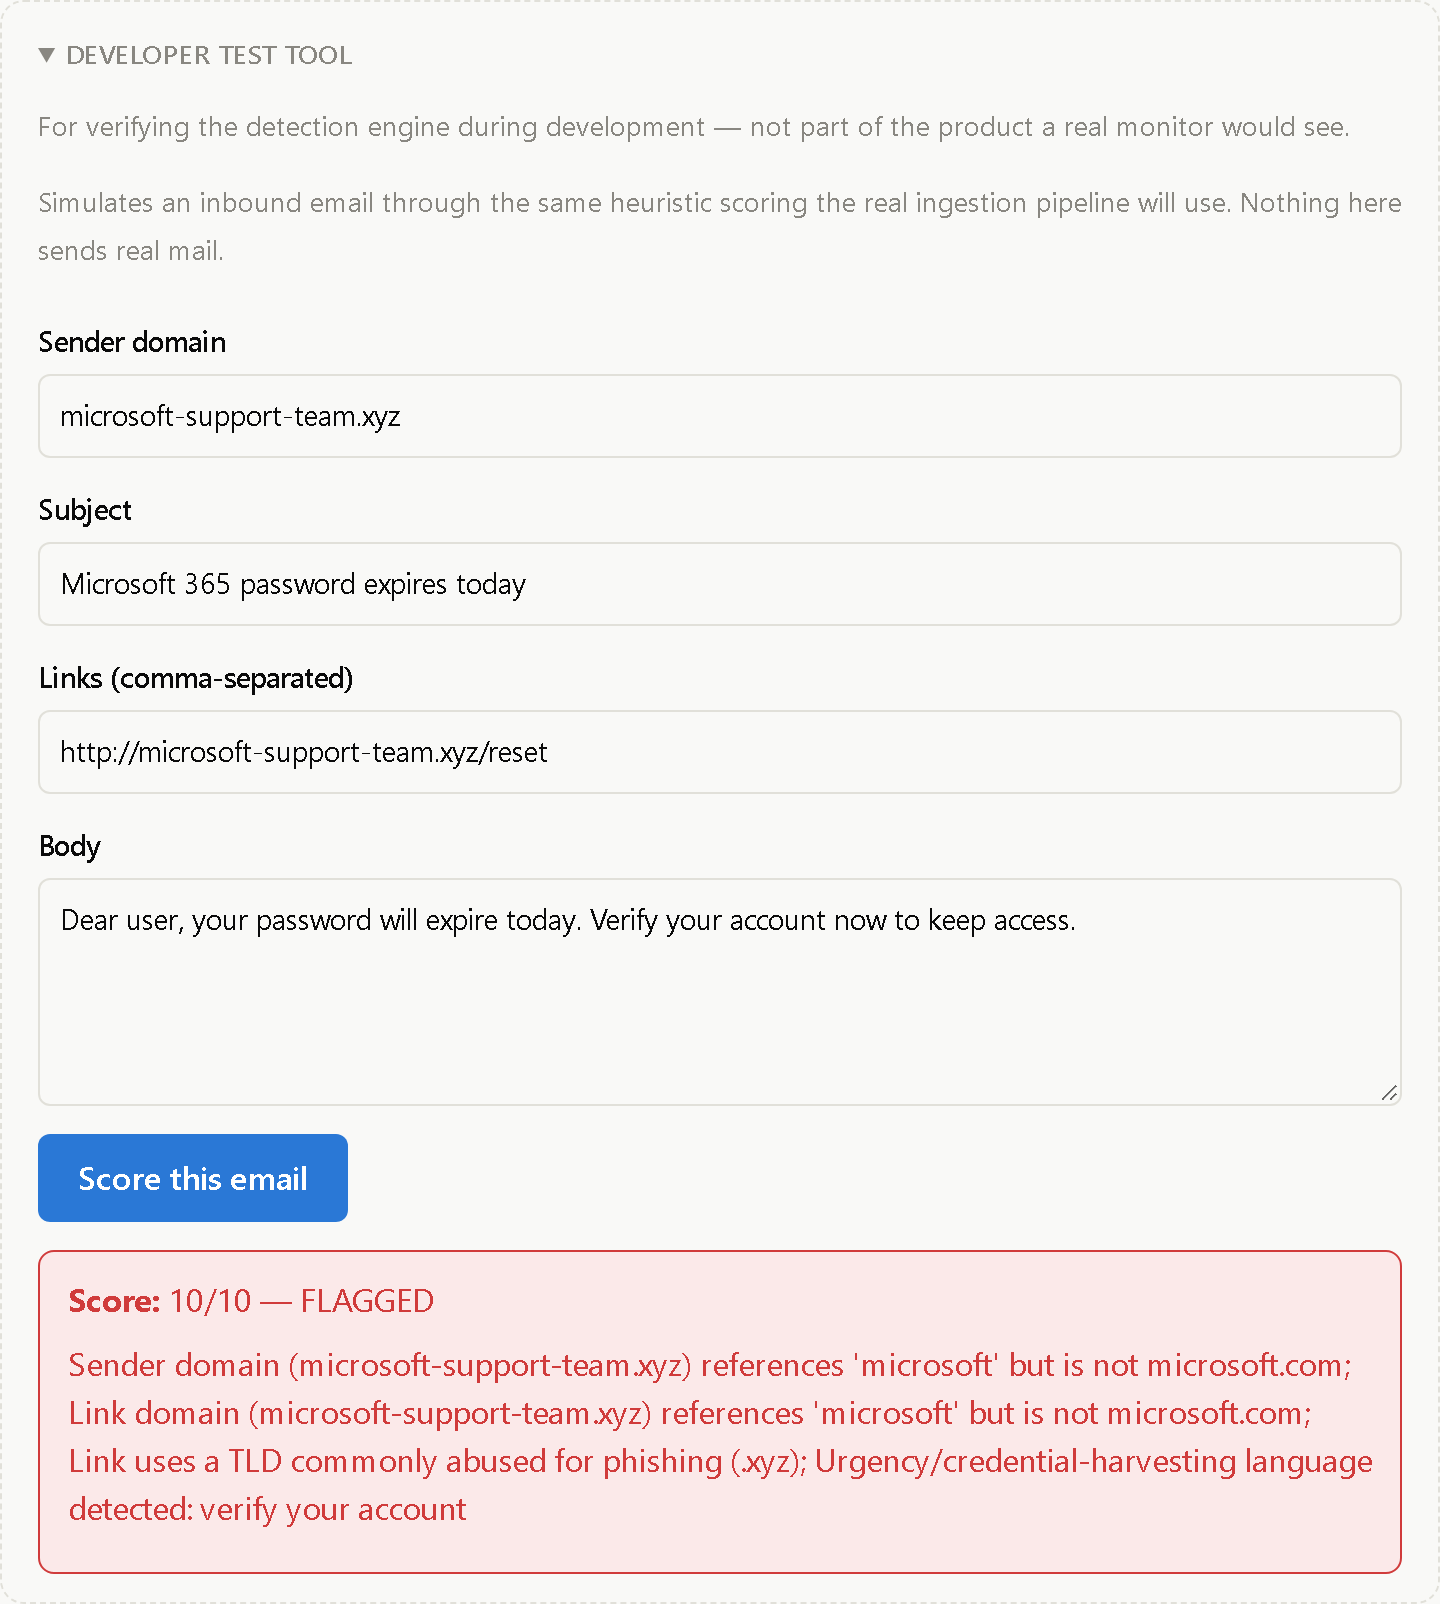
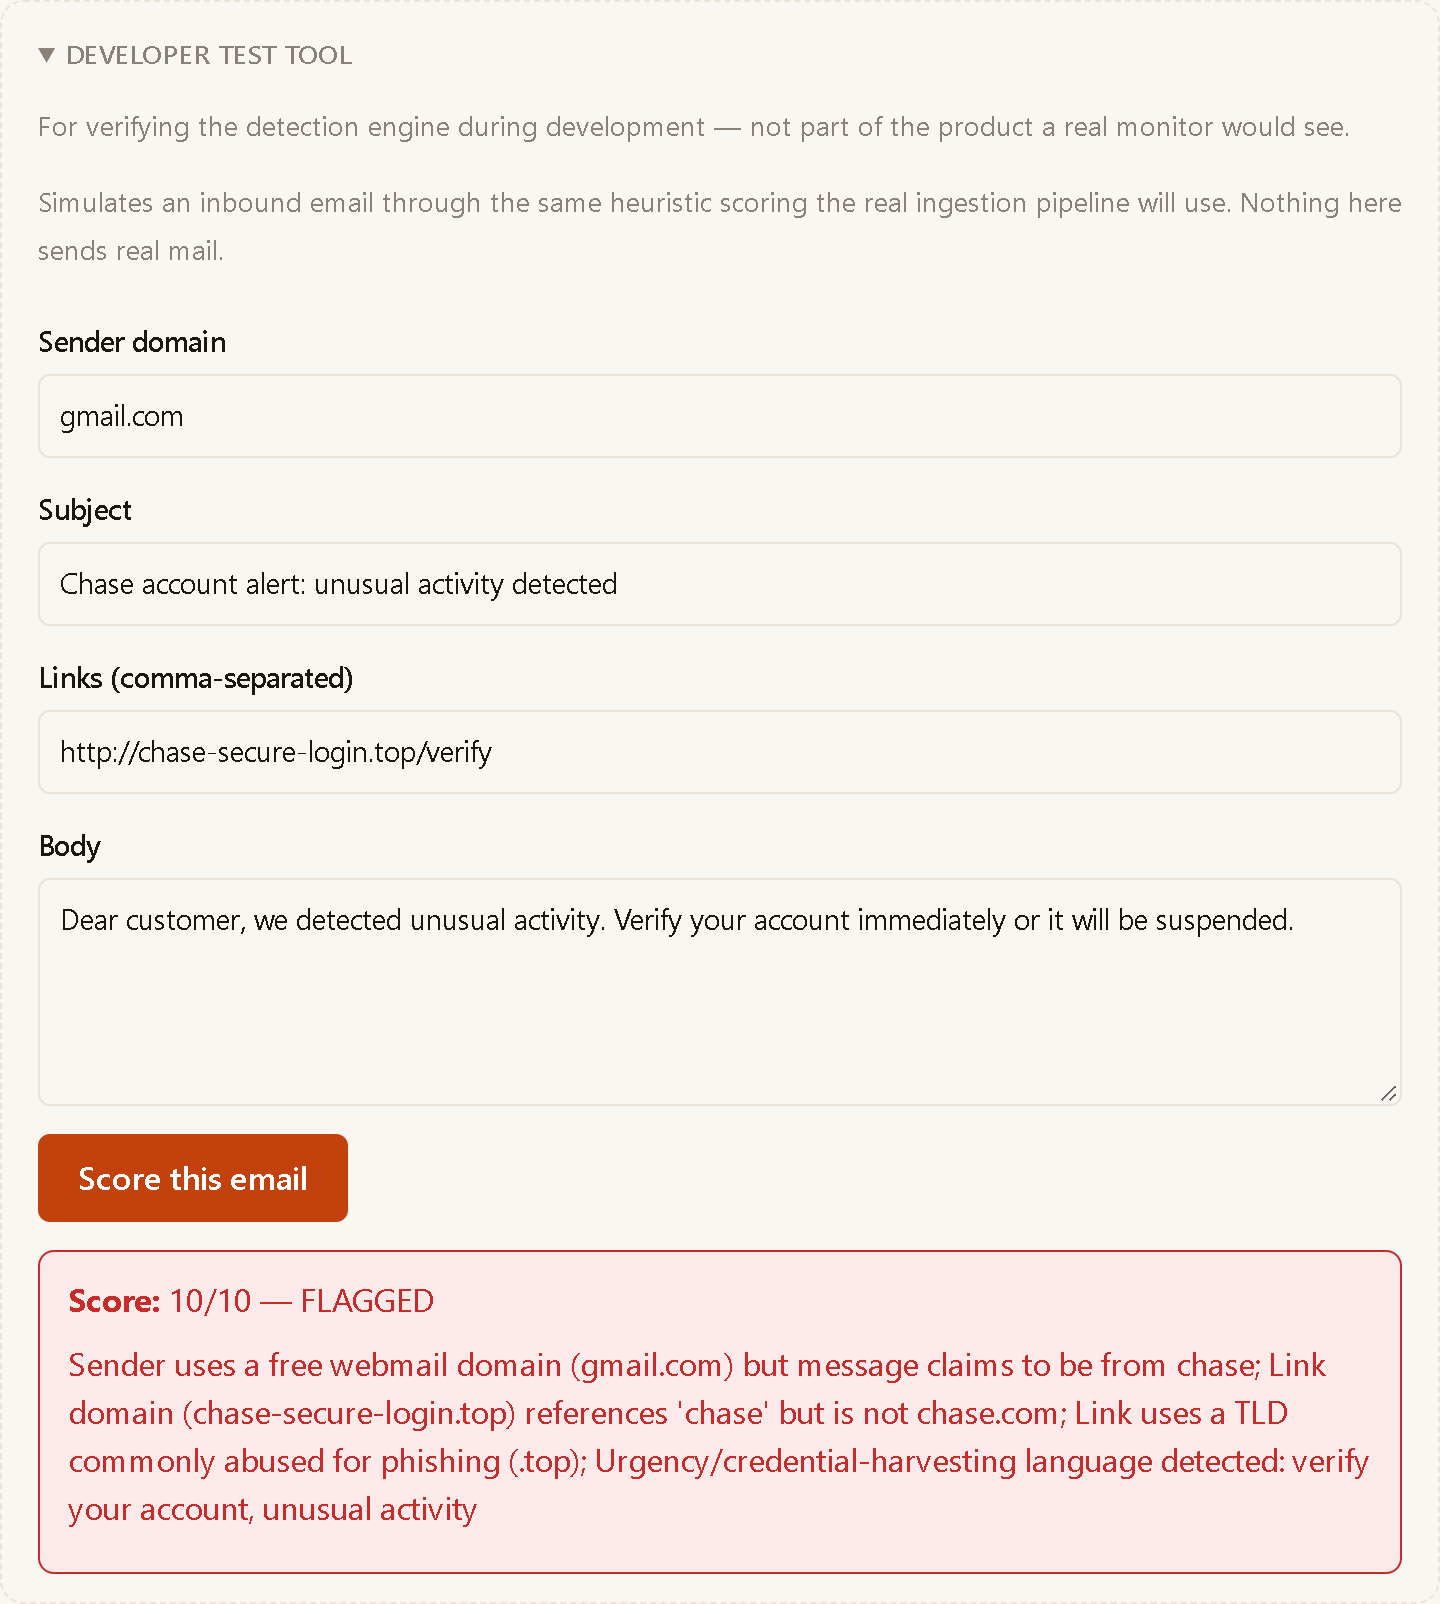
Lightweight SIEM: link live demo, refresh screenshots with orange theme

diff --git a/projects/lightweight-siem/index.html b/projects/lightweight-siem/index.html
@@ -28,9 +28,9 @@
       <header class="pagehead">
         <h1>Lightweight SIEM</h1>
         <p class="lead">Phishing and scam protection for the people in your family who are most likely to be targeted.</p>
-        <p class="status">Working prototype · 2026</p>
+        <p class="status">Working prototype · live demo · 2026</p>
         <p class="tags"><span>Python</span><span>FastAPI</span><span>SQLAlchemy</span><span>React</span><span>TypeScript</span><span>Vite</span><span>OAuth 2.0</span></p>
-        <p class="cta"><a class="btn primary" href="https://github.com/alennjit/Lightweight-SIEM" rel="noopener noreferrer">Source on GitHub</a></p>
+        <p class="cta"><a class="btn primary" href="https://alennjit.github.io/Lightweight-SIEM/" rel="noopener noreferrer">Live demo</a><a class="btn primary" href="https://github.com/alennjit/Lightweight-SIEM" rel="noopener noreferrer">Source on GitHub</a></p>
       </header>
       <section>
         <h2>Overview</h2>
@@ -38,7 +38,7 @@
       </section>
       <section>
         <h2>Screenshots</h2>
-        <div class="gallery"><figure class="shot"><img src="../../assets/projects/lightweight-siem/dashboard-light.png" alt="Lightweight SIEM dashboard in light mode showing summary tiles and a list of flagged emails with severity badges." width="1800" height="2180" loading="lazy"><figcaption>The monitor dashboard: summary tiles, then each flagged message with a severity label, score and plain-language reason.</figcaption></figure><figure class="shot"><img src="../../assets/projects/lightweight-siem/dashboard-dark.png" alt="The same dashboard in dark mode." width="1800" height="2180" loading="lazy"><figcaption>Dark mode uses the same layout with a separately tuned palette.</figcaption></figure><figure class="shot"><img src="../../assets/projects/lightweight-siem/detection-test-tool.png" alt="Developer test form that submits a sample email and shows a flagged result with a 10 out of 10 score." width="1440" height="1604" loading="lazy"><figcaption>A built-in test tool submits a sample email through the same scoring pipeline the real ingestion path uses.</figcaption></figure></div>
+        <div class="gallery"><figure class="shot"><img src="../../assets/projects/lightweight-siem/dashboard-light.png" alt="Lightweight SIEM dashboard in light mode showing summary tiles and a list of flagged emails with severity badges." width="1800" height="3564" loading="lazy"><figcaption>The monitor dashboard, as it appears in the live demo: summary tiles, then each flagged message with a severity label, score and plain-language reason.</figcaption></figure><figure class="shot"><img src="../../assets/projects/lightweight-siem/dashboard-dark.png" alt="The same dashboard in dark mode." width="1800" height="3564" loading="lazy"><figcaption>Dark mode uses the same layout with a separately tuned palette.</figcaption></figure><figure class="shot"><img src="../../assets/projects/lightweight-siem/detection-test-tool.png" alt="Developer test form that submits a sample email and shows a flagged result with a 10 out of 10 score." width="1440" height="1604" loading="lazy"><figcaption>A built-in test tool submits a sample email through the same scoring pipeline the real ingestion path uses.</figcaption></figure></div>
       </section>
       <section>
         <h2>The problem</h2>
@@ -50,7 +50,7 @@
       </section>
       <section>
         <h2>Highlights</h2>
-        <ul class="bullets"><li>Privacy-first design: data minimization, explicit consent from the protected person, and a defined path for what the monitor can and cannot see.</li><li>Gmail OAuth flow with Fernet-encrypted tokens, automatic refresh, and manual-trigger ingestion into the same scoring engine.</li><li>40 automated tests, with every external service mocked.</li><li>Dashboard built for a worried family member, not an analyst: plain-language severity labels and light and dark themes.</li></ul>
+        <ul class="bullets"><li>Privacy-first design: data minimization, explicit consent from the protected person, and a defined path for what the monitor can and cannot see.</li><li>Gmail OAuth flow with Fernet-encrypted tokens, automatic refresh, and manual-trigger ingestion into the same scoring engine.</li><li>40 automated tests, with every external service mocked.</li><li>Dashboard built for a worried family member, not an analyst: plain-language severity labels and light and dark themes.</li><li>Public demo deployed to GitHub Pages by GitHub Actions: no backend, a strict Content Security Policy, and sample alerts whose scores and explanations are real output from the detection engine.</li></ul>
       </section>
       <section>
         <h2>What's next</h2>

diff --git a/projects/index.html b/projects/index.html
@@ -31,8 +31,8 @@
     <section class="wrap">
       <div class="cards">
         <article class="card">
-          <a class="card-thumb" href="../projects/lightweight-siem/index.html" tabindex="-1" aria-hidden="true"><img src="../assets/projects/lightweight-siem/dashboard-light.png" alt="Lightweight SIEM dashboard in light mode showing summary tiles and a list of flagged emails with severity badges." width="1800" height="2180" loading="lazy"></a>
-          <p class="status">Working prototype · 2026</p>
+          <a class="card-thumb" href="../projects/lightweight-siem/index.html" tabindex="-1" aria-hidden="true"><img src="../assets/projects/lightweight-siem/dashboard-light.png" alt="Lightweight SIEM dashboard in light mode showing summary tiles and a list of flagged emails with severity badges." width="1800" height="3564" loading="lazy"></a>
+          <p class="status">Working prototype · live demo · 2026</p>
           <h3><a href="../projects/lightweight-siem/index.html">Lightweight SIEM</a></h3>
           <p>A subscription service for non-technical people — often parents and grandparents. It scans their email for phishing, scores every suspicious message from 1 to 10 with a plain-language explanation, and alerts a linked family member so they can step in before money or credentials are lost.</p>
           <p class="tags"><span>Python</span><span>FastAPI</span><span>SQLAlchemy</span><span>React</span><span>TypeScript</span><span>Vite</span><span>OAuth 2.0</span></p>

diff --git a/index.html b/index.html
@@ -86,8 +86,8 @@
       <!-- projects:start -->
       <div class="cards">
         <article class="card">
-          <a class="card-thumb" href="projects/lightweight-siem/index.html" tabindex="-1" aria-hidden="true"><img src="assets/projects/lightweight-siem/dashboard-light.png" alt="Lightweight SIEM dashboard in light mode showing summary tiles and a list of flagged emails with severity badges." width="1800" height="2180" loading="lazy"></a>
-          <p class="status">Working prototype · 2026</p>
+          <a class="card-thumb" href="projects/lightweight-siem/index.html" tabindex="-1" aria-hidden="true"><img src="assets/projects/lightweight-siem/dashboard-light.png" alt="Lightweight SIEM dashboard in light mode showing summary tiles and a list of flagged emails with severity badges." width="1800" height="3564" loading="lazy"></a>
+          <p class="status">Working prototype · live demo · 2026</p>
           <h3><a href="projects/lightweight-siem/index.html">Lightweight SIEM</a></h3>
           <p>A subscription service for non-technical people — often parents and grandparents. It scans their email for phishing, scores every suspicious message from 1 to 10 with a plain-language explanation, and alerts a linked family member so they can step in before money or credentials are lost.</p>
           <p class="tags"><span>Python</span><span>FastAPI</span><span>SQLAlchemy</span><span>React</span><span>TypeScript</span><span>Vite</span><span>OAuth 2.0</span></p>
